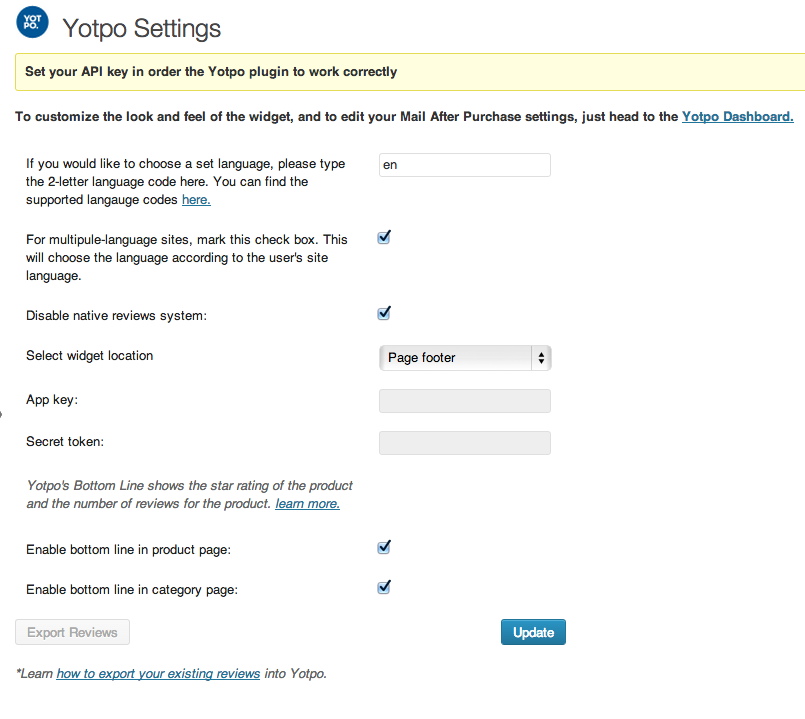
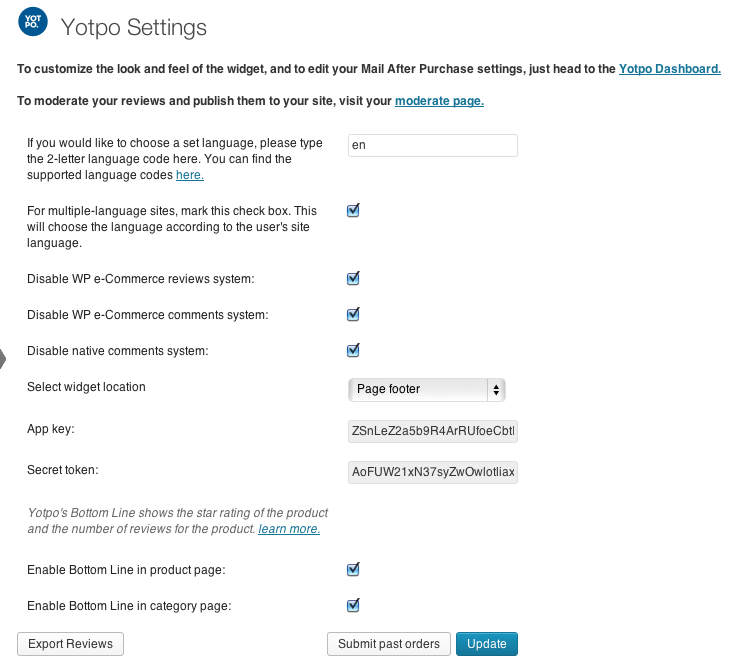
fixed checked echo in settings page

diff --git a/wp-e-commerce-yotpo/templates/wpsc-yotpo-settings.php b/wp-e-commerce-yotpo/templates/wpsc-yotpo-settings.php
@@ -114,7 +114,7 @@ function wpsc_display_yotpo_settings() {
 		   		     </tr>
 		   		     <tr valign='top'>
 		   		       <th scope='row'><div>Disable native comments system:</div></th>
-		   		       <td><input type='checkbox' name='yotpo_disable_native_comments' value='1' ".checked(1, $yotpo_settings['yotpo_disable_native_comments'], true)." /></td>
+		   		       <td><input type='checkbox' name='yotpo_disable_native_comments' value='1' ".checked(1, $yotpo_settings['yotpo_disable_native_comments'], false)." /></td>
 		   		     </tr>           	                 
 	    	         <tr valign='top'>			
 				       <th scope='row'><div>Select widget location</div></th>
